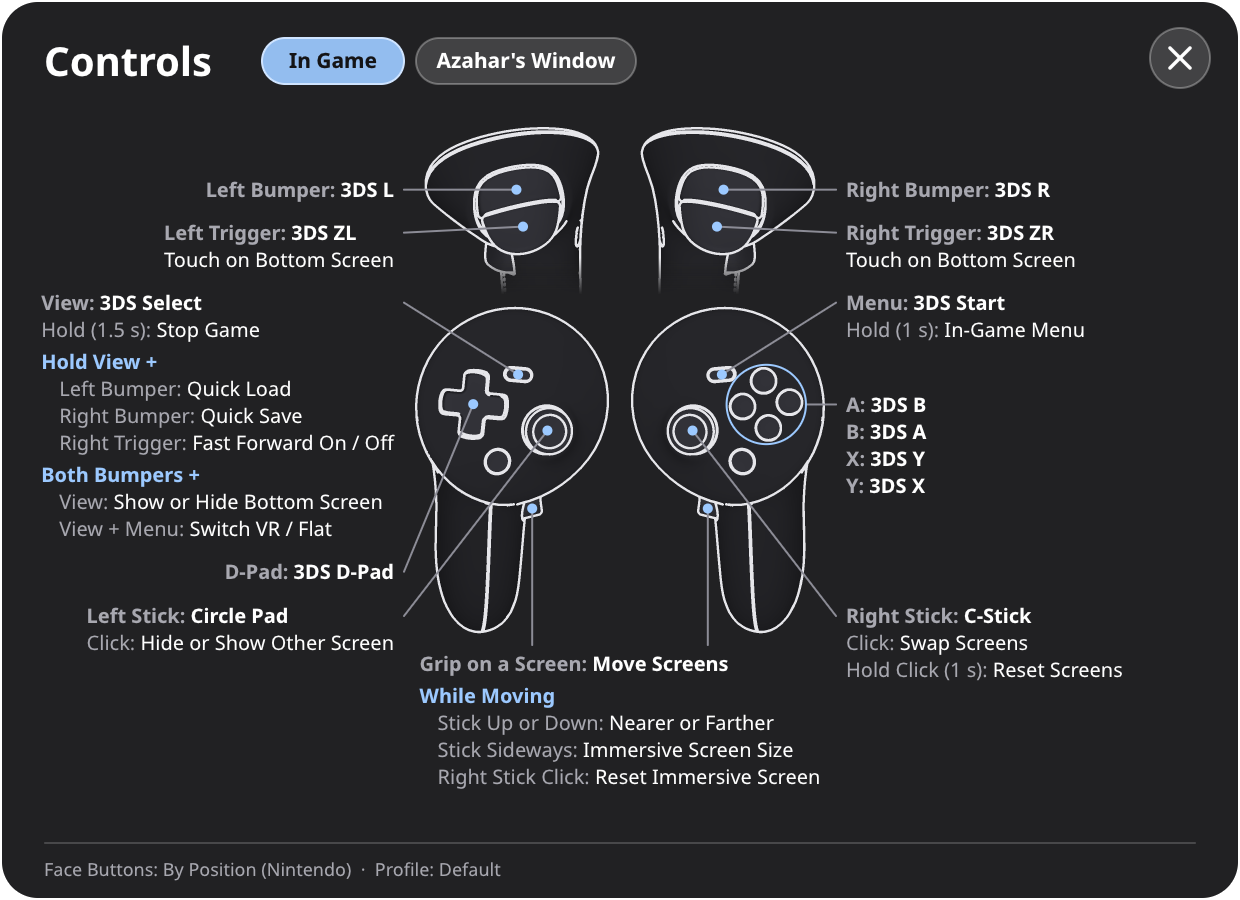
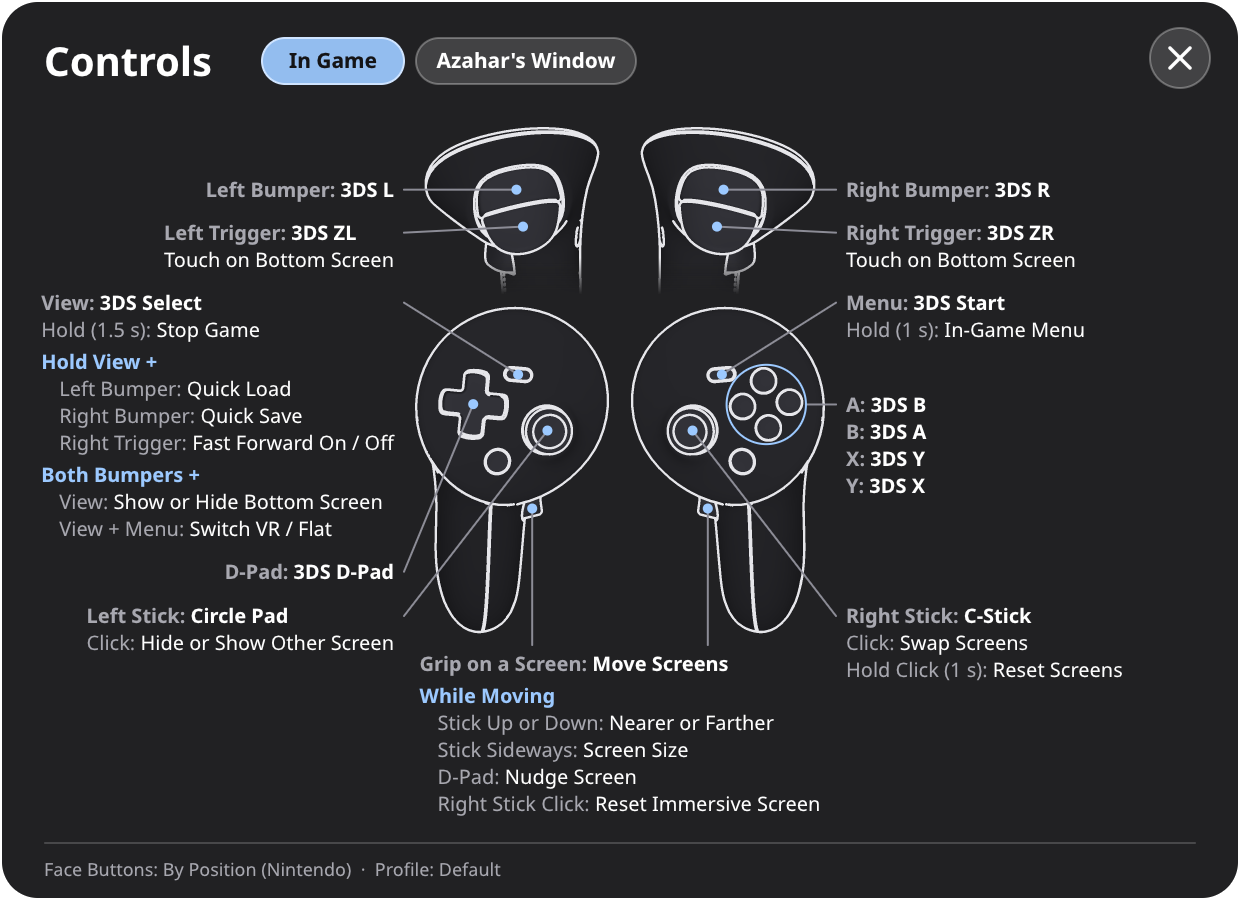
Docs: settings live in SETTINGS.md; the final controls picture

Changed region(s): [[0.3371, 0.8089, 0.6742, 0.9022]]

diff --git a/docs/CONTROLS.md b/docs/CONTROLS.md
@@ -209,28 +209,7 @@ The buttons are the same as in the table above. Both bumpers and **View** bring 
 
 ## Settings
 
-The VR settings are in the **VR** group at the bottom of the **Graphics** tab, in **Emulation > Configure** for every game and in a game's **Properties** for that game. The settings marked global only are not in **Properties**.
-
-| Setting | Choices | Default | Where |
-|---|---|---|---|
-| **Hide Bottom Screen** | on or off | off | Global and per game. Read when the game starts |
-| **Face Buttons** | **By Position (Nintendo)**, **By Label (Xbox)** | By Position (Nintendo) | Global only. Takes effect at once |
-| **Background** | **Black**, **Passthrough** | Black | Global only. Passthrough shows the room, if SteamVR offers it |
-| **Window Scale** | **100%**, **150%**, **200%** | 150% | Global only. How large Azahar's window looks in VR. Flat is not affected |
-| **Motion Controls** | **Off**, **Right Controller**, **Left Controller** | Right Controller | Global only. From Off to a controller takes effect the next time VR starts; the other changes at once |
-| **Show Controllers** | on or off | on | Global only. Takes effect at once |
-| **Show Stats** | on or off | off | Global only. The **Stats** button switches it too |
-| **Screen Shape** | **3DS (5:3)**, **Widescreen (16:9)**, **Ultrawide (21:9)**, **Standard (4:3)**, **3:2**, **16:10** | 3DS (5:3) | Global and per game. Takes effect at once |
-| **Immersive Mode** | **Off**, **Wide (3DoF)**, **Full (6DoF): Ocarina of Time, Majora's Mask**, **Full (6DoF): Other Games** | Off | Global and per game. Three games have a preset, see the user guide |
-| **Immersive Offset** | up to 10° left or right and 10° up or down, in 0.5° steps | None | Global only. Set with a grip and the D-pad in VR; **Reset** puts it back to the middle |
-| **Immersive Game FOV** | 30° to 110° | 60° | Global and per game. Takes effect at once |
-| **Wider View** | on or off | off | Global and per game. Full modes only. Read when the game starts |
-| **Squeeze Width** | **Off**, **10%**, **20%** | Off | Global and per game. Full modes only. Read when the game starts |
-| **Depth Factor Multiplier** | **1x**, **10x**, **100x** | 1x | Global and per game |
-| **View Matrix Register** | **Auto**, 0 to 92 | Auto | Global and per game. Full (6DoF): Other Games only |
-| **Eye Indicator Register** | empty for auto, or a register and index such as `87,2` | empty | Global and per game. Full (6DoF): Other Games only |
-
-What each one does is in the [user guide](USER_GUIDE.md#settings).
+The VR settings are in the **VR** group at the bottom of the **Graphics** tab. Every one is explained in [SETTINGS.md](SETTINGS.md).
 
 ## Motion controls
 

diff --git a/docs/SETTINGS.md b/docs/SETTINGS.md
@@ -24,7 +24,7 @@ While a game with its own value runs, that row is greyed out in **Configure**.
 | [Show Stats](#show-stats) | on or off | off | global | at once |
 | [Screen Shape](#screen-shape) | **3DS (5:3)**, **Widescreen (16:9)**, **Ultrawide (21:9)**, **Standard (4:3)**, **3:2**, **16:10** | 3DS (5:3) | global and per game | at once |
 | [Immersive Mode](#immersive-mode) | **Off**, **Wide (3DoF)**, **Full (6DoF): Ocarina of Time, Majora's Mask**, **Full (6DoF): Other Games** | Off | global and per game | — |
-| [Immersive Offset](#immersive-offset) | up to 10° each way, in 0.5° steps | centred | global | at once <!-- VERIFY offset --> |
+| [Immersive Offset](#immersive-offset) | up to 10° each way, in 0.5° steps | centred | global | at once |
 | [Immersive Game FOV](#immersive-game-fov) | 30° to 110° | 60° | global and per game | at once |
 | [Wider View](#wider-view) | on or off | off | global and per game | when the game starts |
 | [Squeeze Width](#squeeze-width) | **Off**, **10%**, **20%** | Off | global and per game | when the game starts |
@@ -94,7 +94,7 @@ The bottom screen starts hidden. Both bumpers + **View** shows it. Holding the r
 
 ## Immersive Offset
 
-Shifts the immersive screen a little left, right, up or down to fit your lenses. <!-- VERIFY offset --> Use it if you can see one side of the screen but not the other. It is the same in every game and every immersive mode. In VR, hold the immersive screen with a grip and press the D-pad. Each press moves it half a degree. **Reset** in this group puts it back in the middle.
+Shifts the immersive screen a little left, right, up or down to fit your lenses. Use it if you can see one side of the screen but not the other. It is the same in every game and every immersive mode. In VR, hold the immersive screen with a grip and press the D-pad. Each press moves it half a degree. **Reset** in this group puts it back in the middle.
 
 ## Immersive Game FOV
 

diff --git a/docs/USER_GUIDE.md b/docs/USER_GUIDE.md
@@ -194,7 +194,7 @@ Everything is in the Azahar window, under **Emulation > Configure**. Resolution,
 
 The first time VR starts, the buttons and sticks of the current controls profile get the Frame layout (**Emulation > Configure > Controls**). After that your changes stay. In VR the Single Screen and Separate Windows layouts are changed to Default, and the 3D depth is set to 50 % if it is 0.
 
-The VR settings are in the **VR** group at the bottom of the **Graphics** tab. [CONTROLS.md](CONTROLS.md#settings) has a table of all of them with their defaults.
+The VR settings are in the **VR** group at the bottom of the **Graphics** tab. [SETTINGS.md](SETTINGS.md) explains each one, with its choices and default.
 
 ### Face Buttons and Motion Controls
 
